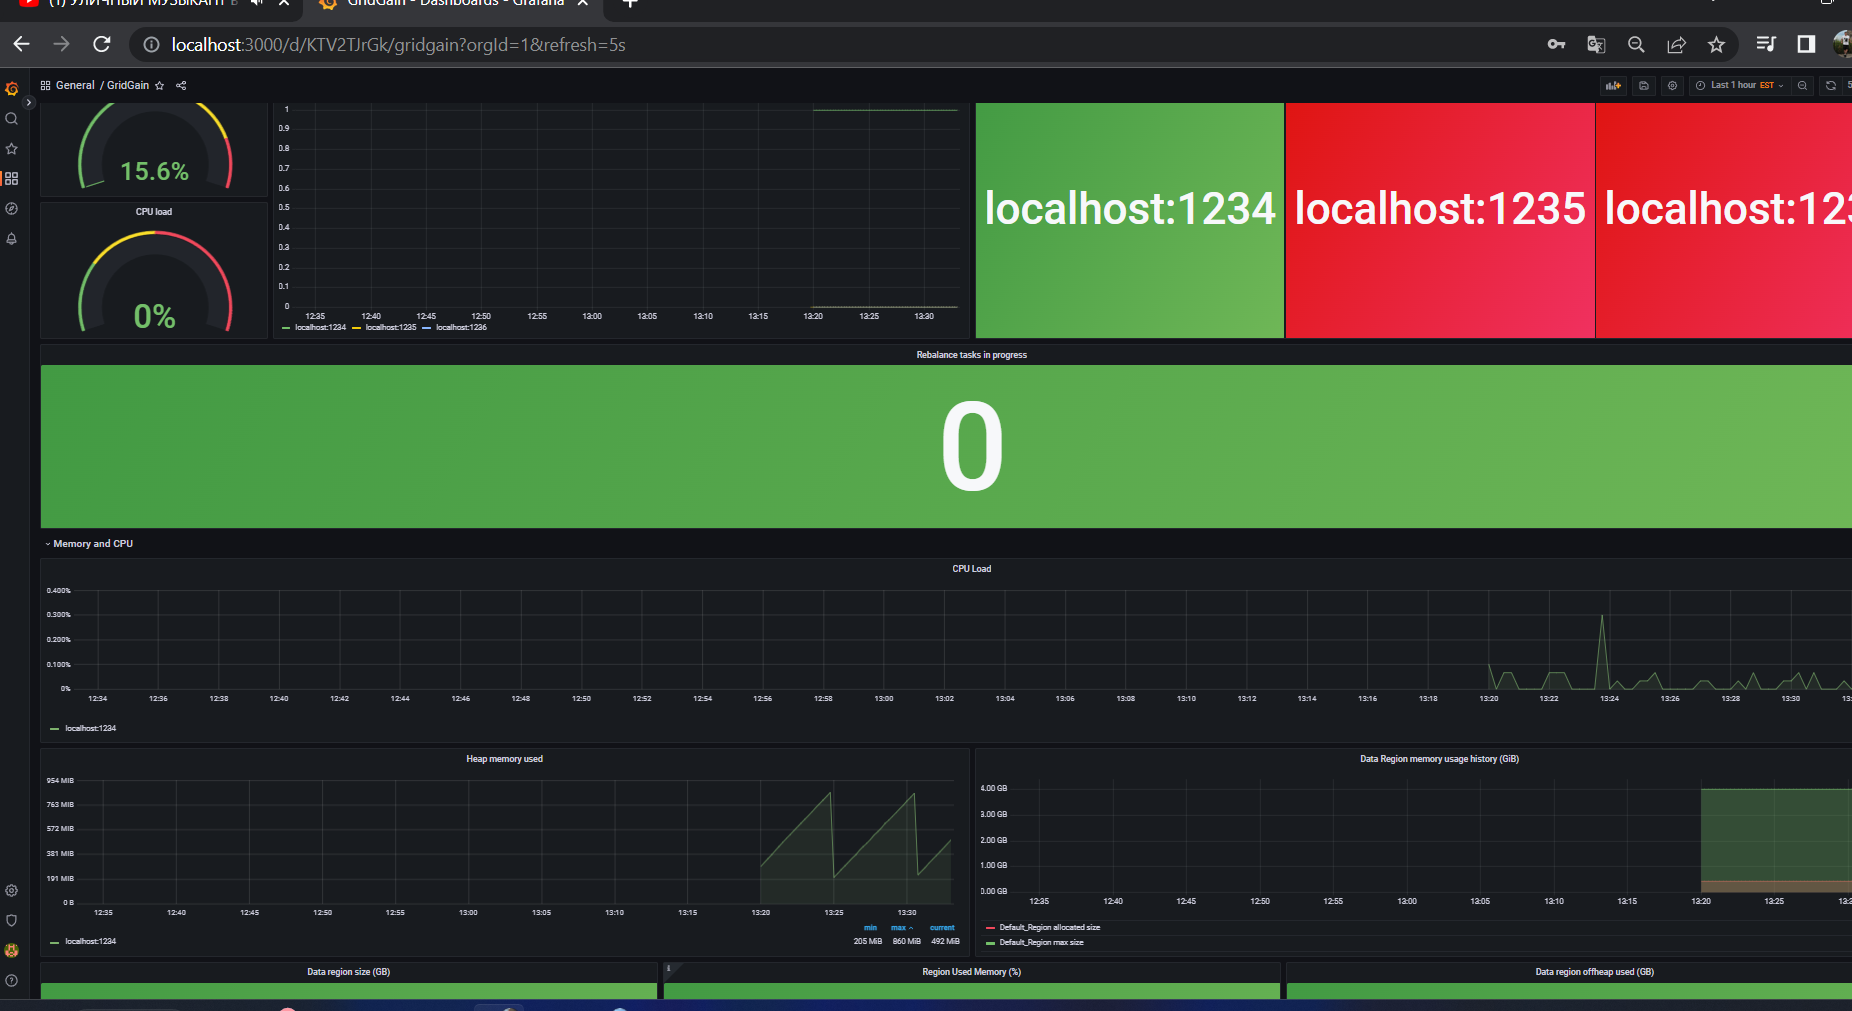
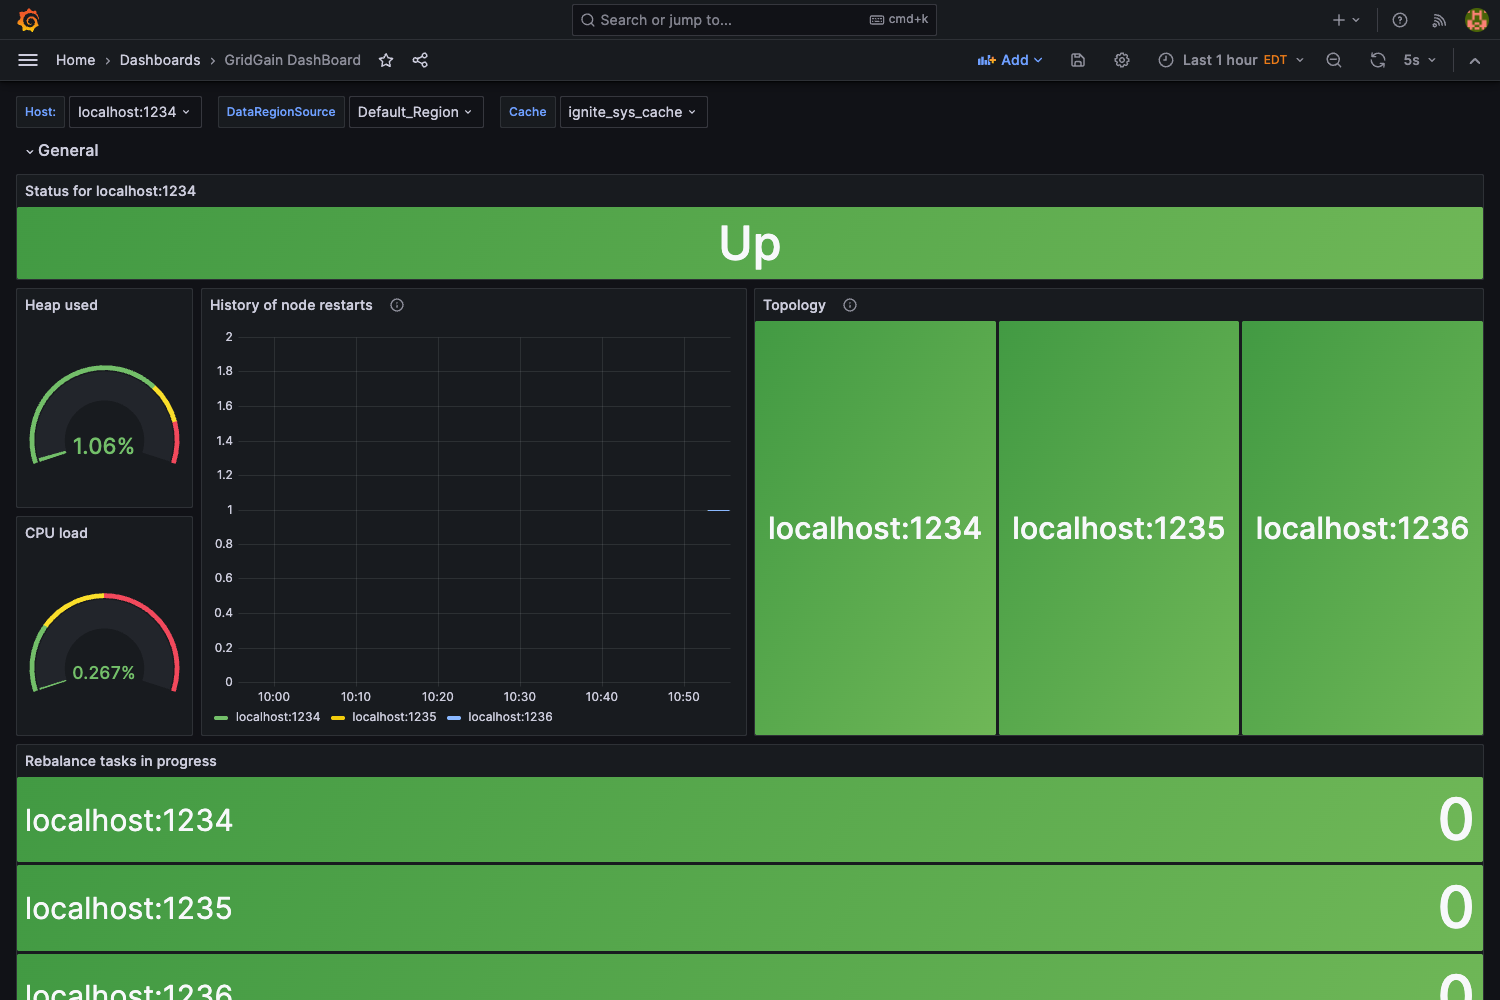
gg8 pages on 8.10, fix SWID and Iceberg prerequisites

diff --git a/gridgain8/gridgain8-management/software-identification.md b/gridgain8/gridgain8-management/software-identification.md
@@ -6,13 +6,9 @@ description: >-
 
 # Software Identification (SWID Tags)
 
-<!-- TODO (release): The field table still shows 8.9.33 as the example version; refresh it with an 8.10.0 SWID file after the release, then delete this comment. -->
-
-<!-- TODO (release): the Docker Hub tag with the plain version 8.10.0 does not exist yet (no 8.10.0 image is published yet); this page uses the placeholder tag 8.10.0. After the 8.10.0 release, check that each of these resolves, update this page if the final names differ, and delete this comment. -->
-
 GridGain distributions include a Software Identification (SWID) tag — an ISO 19770-2 compliant XML artifact that uniquely identifies the product in software asset management (SAM) systems.
 
-SWID tags are generated per package and included in ZIP, Docker, and other distributions. Each tag contains the product name, edition, version, target platform, and a SHA256 digest of the deliverable, allowing SAM tools to accurately track GridGain installations across your environment.
+SWID tags are generated per package and included in ZIP, Docker, and other distributions. Each tag contains the product name, edition, and version, allowing SAM tools to accurately track GridGain installations across your environment.
 
 ## SWID Tag Location
 
@@ -51,20 +47,18 @@ docker run --rm --entrypoint sh gridgain/ultimate:8.10.0 -c "cat /usr/share/swid
 
 Each SWID tag is an XML file containing the following fields:
 
-| Field | Type | Description |
+| Field | Location | Description |
 |---|---|---|
-| `tagId` | string (UUID) | Globally unique identifier for this SWID tag. |
-| `tagVersion` | integer | Version of this SWID document. Starts at `1`. |
-| `name` | string | Product name, including edition. For example: `GridGain 8 Ultimate Edition`, `GridGain 8 Enterprise Edition`. |
-| `version` | string | Full product version in `Major.Minor.Maintenance` format. For example: `8.9.33`. |
-| `versionScheme` | string | Version format identifier. Depends on the package format. For example: `semver` for ZIP and Docker, `rpm` for RPM packages. |
-| `softwareCreator` | string | Product creator. Value: `GridGain Systems`. |
-| `tagCreator` | string | Entity that generated this SWID tag. Value: `GridGain CI`. |
-| `summary` | string | Short product description. For example: `GridGain in-memory computing platform`. |
-| `os` | string | Target operating system. For example: `linux`, `windows`. |
-| `arch` | string | Target architecture. For example: `amd64`, `arm64`. |
-| `digest` | string | SHA256 digest of the deliverable package. |
-| `format` | string | Package type. One of: `zip`, `docker`, `rpm`, `deb`, `tar`, `python`, `dotnet`. |
+| `name` | `SoftwareIdentity` | Product name. Value: `GridGain`. |
+| `tagId` | `SoftwareIdentity` | Identifier of this tag, in the form `com.gridgain.gridgain-<edition>_<version>`. For example: `com.gridgain.gridgain-ultimate_8.10.0`. |
+| `tagVersion` | `SoftwareIdentity` | Version of this SWID document. Value: `1`. |
+| `version` | `SoftwareIdentity` | Full product version in `Major.Minor.Maintenance` format. For example: `8.10.0`. |
+| `versionScheme` | `SoftwareIdentity` | Version format identifier. Value: `semver`. |
+| `Entity name` | `Entity` | Product creator and tag creator. Value: `GridGain Systems`, with `role="tagCreator softwareCreator"` and `regid="regid.2009-11.com.gridgain"`. |
+| `product` | `Meta` | Product name. Value: `GridGain`. |
+| `productFamily` | `Meta` | Product family. Value: `GridGain`. |
+| `edition` | `Meta` | Edition of the package. For example: `Ultimate`, `Enterprise`. |
+| `summary` | `Meta` | Short product description. Value: `GridGain is an enterprise in-memory computing platform`. |
 
 ## Example SWID Tag
 
@@ -72,9 +66,9 @@ Each SWID tag is an XML file containing the following fields:
 
 ## Edition and Lifecycle Information
 
-The `name` field encodes the product and edition, for example:
+The `edition` attribute of the `Meta` element and the `tagId` encode the edition, for example:
 
-- `GridGain 8 Ultimate Edition`
-- `GridGain 8 Enterprise Edition`
+- `Ultimate` (`com.gridgain.gridgain-ultimate_8.10.0`)
+- `Enterprise` (`com.gridgain.gridgain-enterprise_8.10.0`)
 
-The `version` field encodes the full version including major and minor components. These can be mapped to end-of-standard-support (EOS) dates using the [Versioning and Support Lifecycle](versioning-and-support-lifecycle.md) page.
+The `version` attribute encodes the full version including major and minor components. These can be mapped to end-of-standard-support (EOS) dates using the [Versioning and Support Lifecycle](versioning-and-support-lifecycle.md) page.

diff --git a/gridgain8/gridgain8-get-started/how-to-guides/export-data-iceberg-aws.md b/gridgain8/gridgain8-get-started/how-to-guides/export-data-iceberg-aws.md
@@ -5,11 +5,9 @@ description: >-
 
 # How to Export Data to Apache Iceberg on AWS
 
-<!-- TODO (hold): in 8.10 builds, `libs/optional/gridgain-bulkload` carries no `slf4j-api` and the base `libs/` has none either (it is only in `libs/optional/ignite-slf4j`). With only `gridgain-bulkload` enabled, an Iceberg COPY that passes the new `ImportExportConfiguration` check fails with `NoClassDefFoundError: org/slf4j/LoggerFactory`. With `ignite-slf4j` also enabled it proceeds to the AWS credential lookup. The module pom says the release supplies `slf4j-api` from the base `libs/`, so this may be a packaging bug. Decide: if the packaging stays as it is, add the `ignite-slf4j` module to the prerequisites; if it is fixed, check the final distribution and delete this comment. The guide has not been run against real AWS. -->
-
 ## Prerequisites
 
-- An [enabled](../../gridgain8-development/project-setup.md#enabling-modules) `gridgain-bulkload` module.
+- An [enabled](../../gridgain8-development/project-setup.md#enabling-modules) `gridgain-bulkload` module. The module needs the SLF4J API, which the base `libs` folder does not include, so enable the `ignite-slf4j` module too. Without it, the Iceberg `COPY` fails with `NoClassDefFoundError: org/slf4j/LoggerFactory`.
 - An up and running [GridGain node](../what-is-gridgain.md).
 - A valid [AWS account](https://aws.amazon.com/account/).
 - GridGain 8.10 or later, with server-side S3 and Iceberg `COPY` allowed in the node configuration (see [Allow COPY to Use S3 and Iceberg](#allow-copy-to-use-s3-and-iceberg)).

diff --git a/gridgain8/.gitbook/includes/gg8-swid-example.md b/gridgain8/.gitbook/includes/gg8-swid-example.md
@@ -1,27 +1,29 @@
 ```xml
 <?xml version="1.0" encoding="UTF-8"?>
+<!--
+  Software Identification (SWID) tag - ISO/IEC 19770-2:2015
+  Generated by GridGain build system.
+-->
 <SoftwareIdentity
-  xmlns="http://standards.iso.org/iso/19770/-2/2015/schema.xsd"
-  name="GridGain 8 Ultimate Edition"
-  tagId="550e8400-e29b-41d4-a716-446655440000"
-  tagVersion="1"
-  version="8.9.33"
-  versionScheme="semver">
+    xmlns="http://standards.iso.org/iso/19770/-2/2014-DIS/schema.xsd"
+    xmlns:gg="https://www.gridgain.com/swid-ext/1.0"
+    name="GridGain"
+    tagId="com.gridgain.gridgain-ultimate_8.10.0"
+    tagVersion="1"
+    version="8.10.0"
+    versionScheme="semver"
+    xml:lang="en-US">
 
-  <Meta
-    summary="GridGain in-memory computing platform"
-    os="linux"
-    arch="amd64"
-    format="zip"
-    digest="sha256:abcdef1234567890abcdef1234567890abcdef1234567890abcdef1234567890"/>
+    <Entity
+        name="GridGain Systems"
+        regid="regid.2009-11.com.gridgain"
+        role="tagCreator softwareCreator"/>
 
-  <Entity
-    name="GridGain Systems"
-    role="softwareCreator"/>
-
-  <Entity
-    name="GridGain CI"
-    role="tagCreator"/>
+    <Meta
+        product="GridGain"
+        productFamily="GridGain"
+        edition="Ultimate"
+        summary="GridGain is an enterprise in-memory computing platform"/>
 
 </SoftwareIdentity>
 ```

diff --git a/gridgain8/gridgain8-get-started/learning-paths/data-locality/when-to-break-colocation.md b/gridgain8/gridgain8-get-started/learning-paths/data-locality/when-to-break-colocation.md
@@ -5,8 +5,6 @@ description: >-
 
 # When to Break Colocation
 
-<!-- TODO (hold): the explanation that Version B and Version C run the fact-to-fact JOIN locally because of `@AffinityKeyMapped` is not proven. The query joins on `i.customerId = c.id`, and `id` is a value column. The SQL engine treats a join as collocated only on the affinity column (`_KEY` for Customer), so with `setDistributedJoins(true)` the planner cannot show this join as collocated. The B-versus-A speed-up may come from something else. Places to fix: the Javadoc for Version A and B in `CacheConfigs`, the comment in `ReportQuery`, the "Version B, flag on" paragraph, and the Version C statement that the flag is "required for correctness" (nothing in source requires it when the facts are physically colocated and the dimensions are REPLICATED). To resolve: run EXPLAIN for B and C with and without the flag, test the join on `c._key`, re-measure, rewrite the claims and the numbers, then delete this comment. -->
-
 ## Introduction
 
 The previous three tutorials colocated Customer and Invoice caches so every invoice lands on the same primary node as its customer. That design is correct for fact tables that share a join key. It is wrong for the reference data the same query needs to enrich the result.

diff --git a/gridgain8/gridgain8-get-started/learning-paths/cache-centric-foundations/cache-aside-under-load.md b/gridgain8/gridgain8-get-started/learning-paths/cache-centric-foundations/cache-aside-under-load.md
@@ -5,8 +5,6 @@ description: >-
 
 # Cache-Aside Under Load
 
-<!-- TODO (not tested): Only the Java cache-aside example (CacheClient, "Run the Cache-Aside Example") was run on 8.10, against a local MariaDB. The "Run the Workload Simulator Alone" and "Run the Listen Harness Alongside the Simulator" sections were not run: they need the companion repository's Maven build (workload-simulator.jar, listen-harness), and Maven is not installed here and 8.10 is not on Nexus. The sample numbers in those sections (about 93,000 queries in 60 seconds, throughput, hit ratios) are the original author's. Build and run both against an 8.10 cluster, refresh the samples, then delete this comment. -->
-
 ## Introduction
 
 Your relational database works. It serves correct results, enforces constraints, and survives restarts. Under growing load, customer lookups start queuing behind invoice writes, p99 latency climbs, and the operations team asks for a plan.

diff --git a/gridgain8/gridgain8-get-started/application-examples/gridgain-json-basics.md b/gridgain8/gridgain8-get-started/application-examples/gridgain-json-basics.md
@@ -15,7 +15,7 @@ JSON functions are available only in GridGain Enterprise and Ultimate editions, 
 
 {% hint style="info" %}
 
-To proceed with this tutorial, you need to [enable the 'gridgain-sql' module](../../gridgain8-development/project-setup.md#enabling-modules).
+To proceed with this tutorial, you need to [enable the 'gridgain-sql' module](../../gridgain8-development/project-setup.md#enabling-modules). The module's JSON library needs the SLF4J API, which the base `libs` folder does not include, so enable the `ignite-slf4j` module too. Without it, the JSON functions fail with `NoClassDefFoundError: org/slf4j/LoggerFactory`.
 
 {% endhint %}
 

diff --git a/gridgain8/gridgain8-management/monitoring/monitoring-with-grafana.md b/gridgain8/gridgain8-management/monitoring/monitoring-with-grafana.md
@@ -6,8 +6,6 @@ description: >-
 
 # Monitoring with Grafana and Prometheus
 
-<!-- TODO (not tested): The Grafana and JMX flags on this page (rewritten for 8.10, not run) was not run against GridGain 8.10. Run it on an 8.10 build, compare the output and samples with the page, fix differences, then delete this comment. -->
-
 This chapter explains how to configure monitoring of a GridGain cluster with Grafana and Prometheus.
 
 ## Prerequisites
